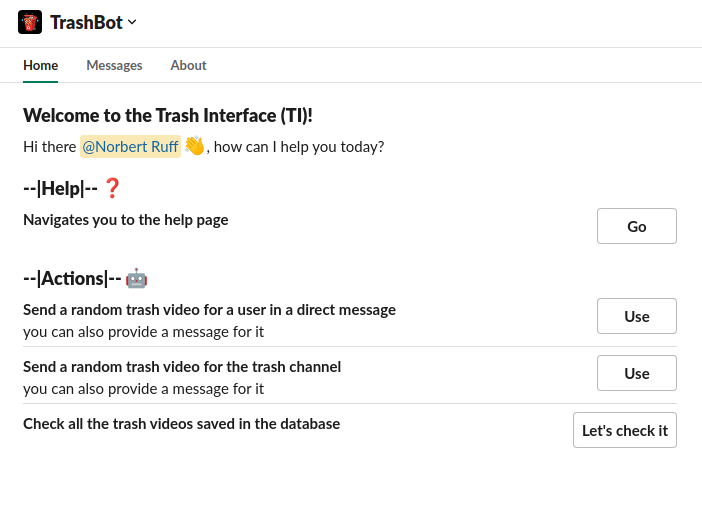
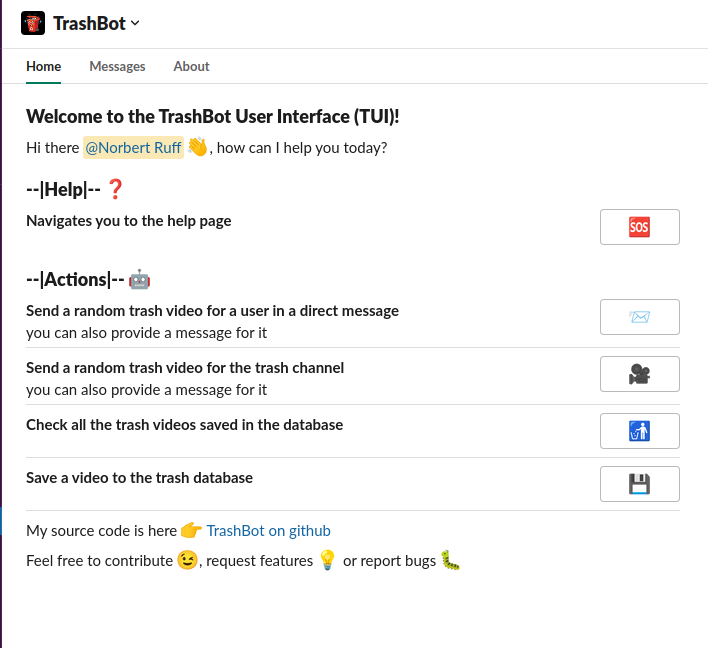
[update] blob

diff --git a/src/utils/blocks.py b/src/utils/blocks.py
@@ -100,7 +100,7 @@ def get_home_view_blocks(user_id) -> dict:
     """Builds and returns the home view blocks"""
     payload = Home(
         blocks=[
-            Header(text="Welcome to the Trash Interface (TI)!"),
+            Header(text="Welcome to the TrashBot User Interface (TUI)!"),
             Section(text=f"Hi there <@{user_id}> :wave:, how can I help you today?"),
             Header(text="--|Help|-- :question:"),
             Section(
